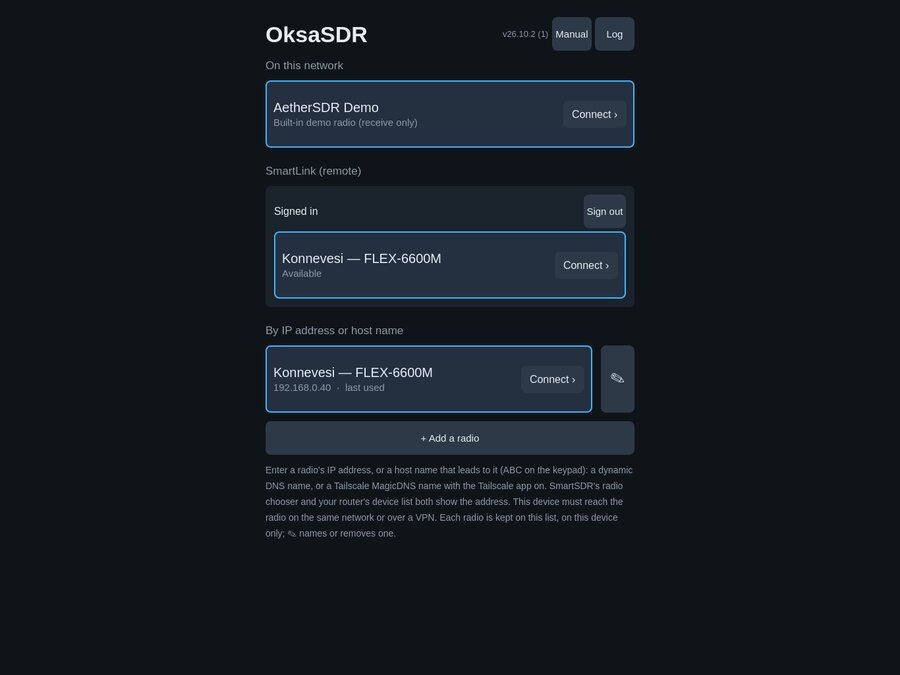
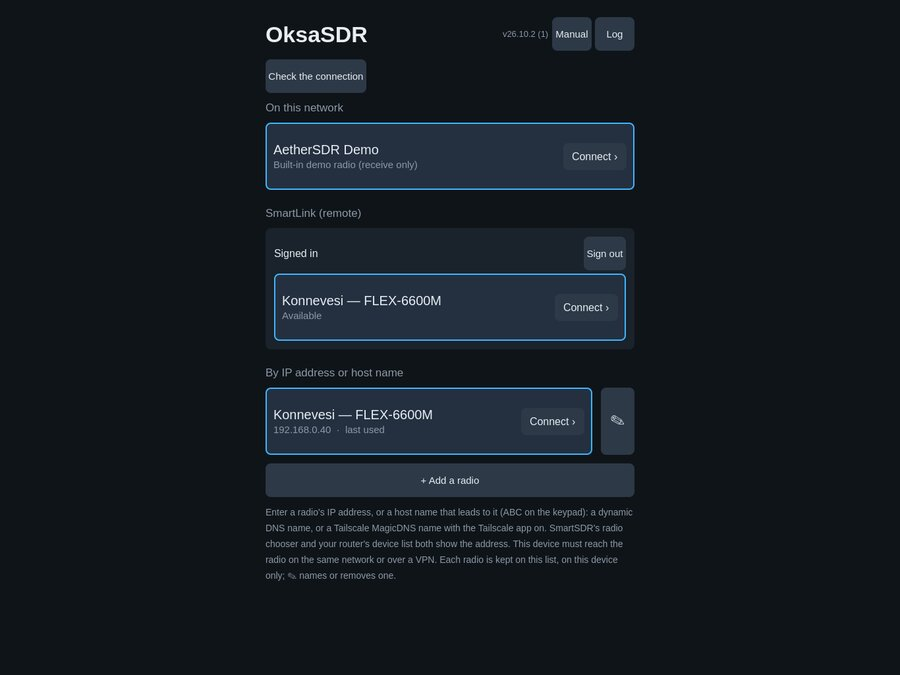
mobile: build 154 / Android beta 67 notes, roadmap, manual and pictures
The manual: Check the connection (Connecting), View › Text size, the
Antenna Genius on the Amp tab and in Radio Setup › Amp, an SO2R TGXL's
Channel A / B, and what the log now holds of a 4O3A setup (Reporting a
problem). TestFlight notes and Android beta 67 (release.env to
android-beta-67): the connection doctor, the text size, the Antenna
Genius and the SO2R channel, the PGXL writes per 4O3A's documents, the
log. Roadmap: build 154's entry. Pictures re-rendered on the FLEX:
connect (Check the connection), tab-view (Text size), setup-amp,
tab-genius.

Claude-Session: https://claude.ai/code/session_01KANojkzU64KoozGDbNDzRK

Changed region(s): [[0.28, 0.2178, 0.7156, 0.8711], [0.28, 0.0622, 0.7156, 0.1867]]

diff --git a/mobile/ROADMAP.md b/mobile/ROADMAP.md
@@ -5,7 +5,7 @@ queued, waiting on someone, or still to verify follows.
 
 ## Next build
 
-Build 154 / beta 67 (the user, 2026-11-04: "Tehdään 1-4"): **1. TGXL SO2R and the Antenna Genius** (Ben Morris's SO2R TGXL on an AG SO2R; refined from his log), **2. the 4O3A audit's open points** (done in 752da141: PGXL writes from a fresh setup read, no single-key fan write, sequence 1-255, a stale amp handle refreshed; the mock's PGXL meters reach the radio's definitions but not their values yet), **3. a connection doctor** (what blocks a connection, in plain words: the local network permission, the route, SmartLink, the radio's station slots, a firewall), **4. the text size from the system setting** (iOS Dynamic Type, Android font scale; the tablet and Mac scale).
+Build 154 / beta 67 (the user, 2026-11-04: "Tehdään 1-4", then "Teen nyt vaan kaikki tähän bildiin"): **1. The Antenna Genius and an SO2R TGXL's channel** (Ben Morris's SO2R TGXL on an AG SO2R; his build 153 log, a FLEX-8600 over SmartLink on a mobile network, held nothing of the devices, so first **the devices' own words into the log**: the radio's amplifier status per device once per change, each direct link's info and first status, the PGXL setup group with the code hidden, the AMP meters the radio lists, the first readings and each transmission's highest; then, after 4O3A's AG TCP/IP API and the TGXL description, on the engine's AntennaGeniusModel: Radio Setup › Amp's AG address / Control / remote code, the Amp tab's ports with band, RX / TX antenna and the antennas allowed on the band (port set rxant= / txant= where allowed, asked first, not while transmitting), the engine's band recall made switchable and off (the desktop asserts the last antenna on every band change and at connect), an SO2R TGXL's Channel A / B (activate ch=); genius-mock --ag and --tgxl-so2r; tested against the mock registered with the FLEX: a TX antenna, an RX-only one keeping TX, back, the channel; the mock sends port get's terminator as the engine's model reads it). **2. The 4O3A audit's open points** (PGXL writes from a fresh setup read and no single-key fan write, sequence 1-255, a stale amp handle refreshed; the mock PGXL's meters reach the radio's definitions but not their values: Ben's log will show the real ones). **3. The connection doctor** (Connect page › Check the connection: network, name, where the radio is, TCP 4992 answered / refused / silent with the Local Network hint, the radio's firmware, stations and multiFLEX; SmartLink sign-in, listing and slots; tested against the FLEX, a dead address, a host without the port, a bad name and SmartLink). **4. The text size from the system** (iOS content size category, Android fontScale, View › Text size; Theme.px() on the panels', dialogs' and setup pages' 339 sizes, the operating screen and buttons kept: at 115 % a phone's step and PTT rows no longer fit; the sweep at 100 % identical to build 153's, at 130 % the operating screen unchanged). To verify: Ben's AG and SO2R channel, the text size on an iPhone and an Android phone at their largest settings.
 
 Build 153 / beta 66 (the user, 2026-11-04: the crash log "Lisää seuraavaan buildiin"; Juho Kontio's crash and Ben Morris's PGXL / TGXL comment from build 152): **The SmartLink crash at Connect** (Juho: multiFLEX off, AetherSDR at his remote station, build 152 still crashed at Connect; his .ips from build 150 a SIGSEGV from the SmartLink socket): reproduced by a simulated refusal of "client gui" with AddressSanitizer: WanConnection::processLine erased a response callback's map node after the callback, whose refusal had ended the session and cleared the map (heap use after free); the callback now leaves the map before it runs. Upstream main still has this and build 152's destructor bug (upstream not pursued). **No retry after the radio refuses the app** (it only met the same refusal), an error saying why, and **Another station is on the radio** (Main.qml): on the radio's network with multiFLEX off the engine pauses before registering (multiFlexConflictDetected; the app sat connected with nothing), over SmartLink before connecting when the licence allows one station (the desktop's confirmClientSlotAvailability; the FLEX-6600M reports licensed_clients=2) and after a refusal from SmartLink's station list; Disconnect it and connect / Cancel. Tested on the FLEX with the cabin iMac's AetherSDR on it, multiFLEX off and a refusal simulated by local test patches (removed). **The crash log** (LogBuffer): kept lines also to run.log as they come, a crash signal's name and call stack (backtrace / _Unwind_Backtrace, alternate stack, then the system's own handling), the next start's notice and Log › Previous run (Share / Copy); tested with SIGSEGV. **PGXL / TGXL wording** (Ben Morris, iPhone 17 Pro Max, real devices: Control on, but where to Operate?): where the buttons are under Control, the address as the device's own (the reported one in the empty field, "the radio reports none"), "Read directly … (the radio does not report it)", *Use the address the radio reports* / *Clear the address*; the iPad over LTE and WireGuard reached genius-mock.py at an entered address (10.9.0.5 → 192.168.1.232), as a VPN user would. Then (the user: "voidaanko simuloida tilanne jossa radio luulee, että meillä on oikeasti pgxl ja tgxl"): **genius-mock.py --radio** registers the stand-ins with the FLEX as paired devices do (4O3A's PGXL amplifier-to-radio API: a non-GUI client per device, amplifier create, keepalive, ping; no interlock, no meters), and the radio then connects to the devices' own ports and relays: the PGXL gets operate=0/1, the TGXL operate set= / bypass set= and autotune, and with --radio-tune the TGXL's autotune keys the radio's tune carrier (transmit tune 1 / 0) as the real tuner does. Tested from this PC and the user's iPad over the home network, WireGuard on LTE and SmartLink without a VPN: the address filled from the radio, Operate / Standby, Bypass, Tune keying the radio (15 W), the relays, the fan, the remote code asked, entered and kept, a mock restart as a link outage. **4O3A's TGXL protocol description** (upstream discussion #2595, WP4SK; the user: these are on main, read them) checked against all the PGXL / TGXL code by a separate read: relays numbered 1 = C1, 2 = L, 3 = C2 (we sent 0..2: L moved C1, C2 moved L, in builds up to 152 and on the desktop), 3way=1 in info for the 1x3 model (the radio maps it to one_by_three, seen on the FLEX), operate set= / bypass set= and the device's state= / bypass= direct for a tuner the radio does not report, swr of either sign, a port live with a band or a frequency whatever feeds it; left unverified by the documents: antA's base, the PGXL setup write and its authcode, the PGXL sequence past 255, the SO2R model's channel. **Ben's real cause** (his FB update: On took continuous tapping): every telemetry frame rebuilt Radio Setup's device rows (the state maps in the Repeater's model), so a tap landed on a replaced button; a fixed model now, and the Amp tab's relay rows a count. Also: the radio's refusal of a relayed amp / tuner verb shown (FlexBackend's reply sink; a Tune refused with 5000003C did nothing on screen), Radio Setup's device headings and texts (which code, why asked, what works without a direct link), the Forward bars 0-100 W under 100 W, fast polling from the key. **Split by XIT** (Sebastian DG5CST, e-mail: his FLEX-6400M's second slice held by AetherSDR at his remote PC; a Maestro user splits by XIT): Controls › TX › Split, SPLIT then sets the active slice's xit_on / xit_freq (1 kHz CW, 5 kHz voice; hold +1 / +2 / +5, XIT's ±9.999 kHz), read back from another client on the FLEX. **The decoder's text in the Macros panel** (Tyler K0OTC, e-mail: the panel covered the CW decoder). **RIT / XIT steps on their grid** (the user on Android: from 9999 the steps went …9, −1 past zero). To verify: Juho's case on his radio, Ben's devices (the relays, the 1x3 switch, the meters the real PGXL creates on the radio), Seb's split by XIT.
 

diff --git a/docs/mobile/MANUAL.md b/docs/mobile/MANUAL.md
@@ -434,6 +434,20 @@ the page then says why, and the same question follows. To share the radio
 between stations, turn multiFLEX on in SmartSDR's Radio Setup. (Reported
 by Juho Kontio, whose app crashed when the radio refused it.)
 
+**Check the connection.** When a radio does not connect, **Why? Check the
+connection** (or *Check the connection* any time) goes through the way to
+the radio last tried, step by step, and says which step fails and what to
+do: this device's network; a host name looked up; where the radio is from
+here (this network, another private network that needs a route or a VPN
+on, a Tailscale address, the internet with its port forwards); the radio's
+own port (TCP 4992): answered, refused, or no answer (wrong network, the
+VPN off, a firewall; on an iPhone or iPad also the Local Network
+permission); and on an answer what the radio says: its firmware, the
+stations on it and whether multiFLEX is on. For a SmartLink radio: signed
+in, the radio listed and its status, its station slots. Nothing on the
+radio is changed: the check reads and closes without connecting a station.
+Each step also goes into the log.
+
 The top row shows the app version, **Manual** and **Log** (see
 [Reporting a problem](#12-reporting-a-problem)).
 
@@ -1125,7 +1139,12 @@ seven.
     offered above the memories (*Call*) and on the Log tab (*Heard in CW*).
 - **View** — **Band plan** (the strip at the foot of the spectrum: *Off*,
   *ARRL (US)*, *IARU Region 1 / 2 / 3*, *RAC (Canada)* or *SSA
-  (Sweden)*), **Spots** (shown or hidden) and the **DX cluster**,
+  (Sweden)*), **Text size** (*System* follows the system's text size —
+  iOS Settings › Display & Brightness › Text Size, Android's font size —
+  or a fixed *100 % / 115 % / 130 %*; the panels', dialogs' and setup
+  pages' text grows, the operating screen's dense controls and the
+  buttons keep their size so they still fit; the app stops at 135 %),
+  **Spots** (shown or hidden) and the **DX cluster**,
   2D waterfall or 3D, waterfall levels, spectrum range, 3D floor, smoothing
   and gain.
   - **Spot filters** — which spots show: *All*, *CW*, *Phone* or *Digital*
@@ -1592,8 +1611,18 @@ seven.
     carrier reads) and SWR, **Mode** *Standby* / *Bypass* / *Operate*, **Tune** (it keys the radio for its tune carrier itself, and
     keys or holds its amplifier as its own utility says; *Stop tuning*
     ends it), the relays **C1**, **L** and **C2** a step at a time with − /
-    +, and on a 1x3 model **Antenna** 1-3; an alert such as *Tuned SWR
-    1.13:1*.
+    +, on a 1x3 model **Antenna** 1-3, and on an SO2R model **Channel**
+    *A* / *B* (the radio port its meters and Tune belong to, with each
+    side's frequency); an alert such as *Tuned SWR 1.13:1*.
+  - **Antenna Genius** (at the address set in Radio Setup › Amp): each
+    radio port's band, RX and TX antenna, *auto* or *manual*, *TX* while
+    it transmits, *inhibited*; and the antennas the Antenna Genius allows
+    on that band as buttons (one only for receive marked *(RX)*). A tap
+    switches the port to it (asked first): receive, and transmit where the
+    antenna may transmit on the band (else the TX antenna stays). Not
+    while that port or the radio transmits. OksaSDR sends the Antenna
+    Genius nothing else: it and a Tuner Genius keep their own antenna for
+    each band.
 
   The buttons change a device only with **Control** on in Radio Setup ›
   Amp, and each change asks first (stopping a tune does not). A command
@@ -1748,6 +1777,11 @@ radio.
   the Address, and the Remote code set (the device then asks for it).
   SmartLink carries only what the radio relays (state, power, SWR,
   Operate / Standby).
+  **4O3A Antenna Genius**: the radio does not report one, so it is read
+  at the **Address** set here (its own, TCP 9007; on the station's network
+  or a VPN), with its state, name and version; **Control the antenna
+  switch** (off until turned on: the Amp tab's antenna buttons) and its
+  **Remote code** when it asks, as for the PGXL and TGXL.
 
   ![Radio Setup › Amp](manual/setup-amp.jpg)
 - **USB** — USB-serial (FTDI) cables in the radio's USB ports, as
@@ -1858,7 +1892,11 @@ your device model and what you were doing. After a crash, open the app
 again: the log is also kept in a file as the app runs, and Log shows *The
 previous run ended in a crash* in red with its own **Share** and **Copy**:
 that log ends with the crash and where in the app it happened. (Juho
-Kontio's crash left no log to send.) The log header shows the app
+Kontio's crash left no log to send.) With a Power Genius XL, Tuner Genius
+XL or Antenna Genius the log also holds what the radio and the devices
+report of themselves (a remote code hidden), the meters they make on the
+radio and each transmission's highest readings: send it after a moment on
+Controls › Amp. The log header shows the app
 version and build. **Clear** empties the log, so the next copy starts from
 a known point. **Developer link** (with a PC address) is only for the
 developer's own devices: leave it off.

diff --git a/mobile/android/RELEASE_NOTES.md b/mobile/android/RELEASE_NOTES.md
@@ -1,6 +1,14 @@
-**OksaSDR for Android — beta 66.** A FlexRadio client for Android phones and tablets, built on the [AetherSDR](https://github.com/aethersdr/AetherSDR) engine: the same app as on the iPhone and iPad (TestFlight), from the same code.
+**OksaSDR for Android — beta 67.** A FlexRadio client for Android phones and tablets, built on the [AetherSDR](https://github.com/aethersdr/AetherSDR) engine: the same app as on the iPhone and iPad (TestFlight), from the same code.
 
-### New in beta 66
+### New in beta 67
+- **Check the connection** (the connection doctor): when a radio does not connect, **Why? Check the connection** on the Connect page goes through the way to it and says which step fails and what to do: this device's network; a host name looked up; where the radio is from here (this network, another private network that needs a route or a VPN on, a Tailscale address, the internet and its port forwards); the radio's port (TCP 4992): answered, refused, or no answer; on an answer the radio's firmware, the stations on it and multiFLEX. For SmartLink: signed in, the radio listed, its station slots. Nothing on the radio changes. (Juho Kontio's refused connect, Ben Morris's devices out of reach on the mobile network and a firewall in the way were each found by hand.)
+- **Text size follows the system's** (Android's Settings › Display › Font size), or **View › Text size** 100 / 115 / 130 %: the panels', dialogs' and setup pages' text grows; the operating screen's dense controls and the buttons keep their size so a phone's rows still fit; up to 135 %.
+- **Antenna Genius** (thanks Ben Morris, whose SO2R Tuner Genius XL sits on one): Radio Setup › Amp takes its address (the radio does not report it), Control and its remote code; Controls › Amp shows each radio port's band, RX / TX antenna and the antennas allowed on that band, and with Control on a tap switches it (asked first, never while transmitting). OksaSDR sends it nothing else (the engine's band recall is off: the AG and a TGXL keep their own band memories).
+- **An SO2R Tuner Genius XL's channel**: Channel A / B on the Amp tab with each side's frequency; a tap makes the other the active one (asked first).
+- **PGXL writes as 4O3A's documents have them**: a fan or MEffA change reads the amplifier's setup again first (so a remote code set elsewhere is not cleared), no single-key write, command numbers within 1-255; a stale amplifier handle refreshed.
+- **The log tells more of a 4O3A setup**: what the radio reports of each device, the devices' own info and first status (a code hidden), the meters they make on the radio and each transmission's highest readings, the Antenna Genius's antennas and port changes. Send it after a moment on Controls › Amp.
+
+### Still new from beta 66
 - **A SmartLink crash at Connect fixed** (thanks Juho Kontio: with multiFLEX off and AetherSDR on his radio, the app still crashed at Connect): the radio refuses a second station then, and handling its answer used memory the refusal had already freed. Found by simulating the refusal under AddressSanitizer; clean after the fix.
 - **Another station is on the radio**: when the radio takes one station at a time (multiFLEX off) and another is on it, the app names it and asks: **Disconnect it and connect**, or **Cancel**. On the radio's own network the connect waits for the answer (before, the app sat connected with an empty display); over SmartLink a refusal now says why, does not retry, and the same question follows.
 - **The log survives a crash**: the app also writes its log to a file as it runs, and a crash adds where it happened. At the next start **Log** says *The previous run ended in a crash* in red, with **Share** and **Copy** for that run's log (the file stays on the device).
